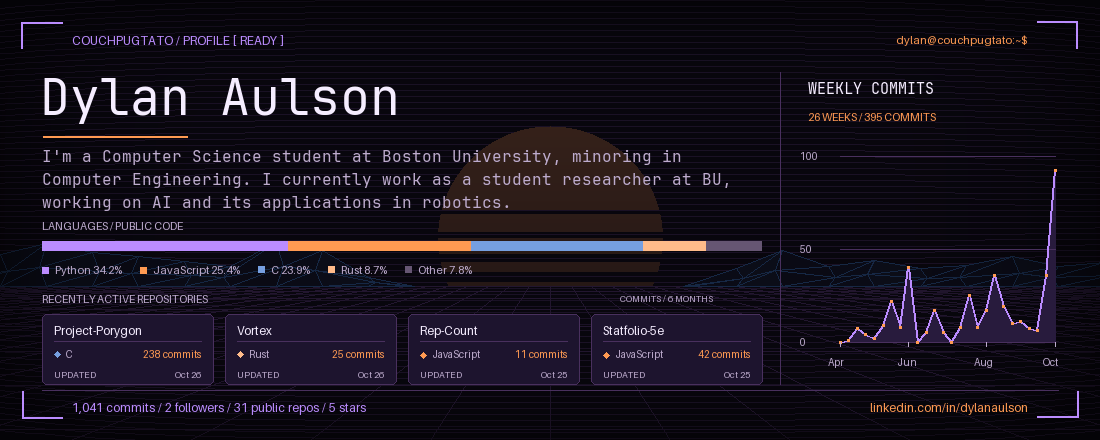
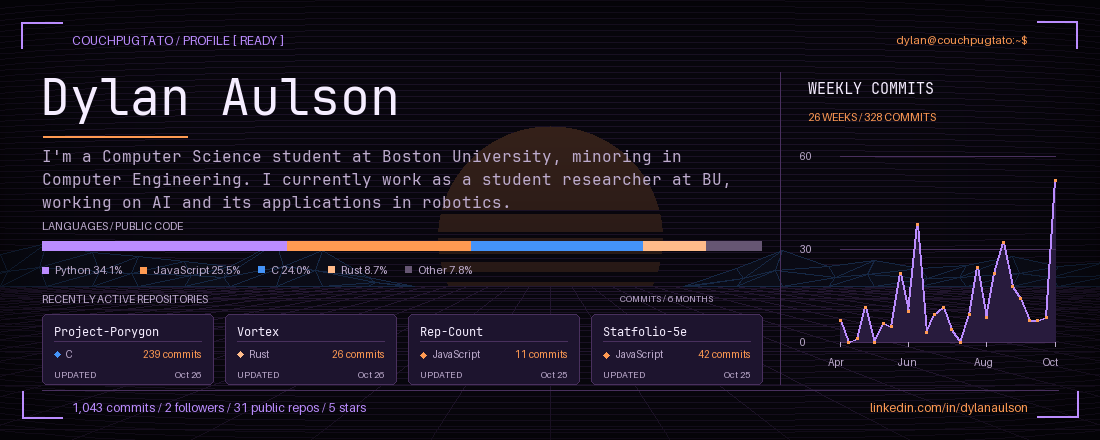
Change: match language blue to arm color

diff --git a/scripts/render_profile.py b/scripts/render_profile.py
@@ -28,8 +28,8 @@ TIMELINE_SECONDS = 12.5
 
 
 @lru_cache(maxsize=64)
-def font(size: int) -> ImageFont.FreeTypeFont:
-    if size <= 12:
+def font(size: int, monospace=False) -> ImageFont.FreeTypeFont:
+    if size <= 12 and not monospace:
         return ImageFont.load_default(size=size)
     for candidate in (
         str(ROOT / "profile/fonts/JetBrainsMono-Regular.ttf"),
@@ -44,8 +44,8 @@ def font(size: int) -> ImageFont.FreeTypeFont:
     raise ValueError("No supported font found. Install DejaVu Sans Mono or edit font().")
 
 
-def text(draw, xy, value, size, width, max_lines, fill=INK):
-    face = font(size)
+def text(draw, xy, value, size, width, max_lines, fill=INK, monospace=False):
+    face = font(size, monospace=monospace)
     lines, current = [], ""
     for word in value.split():
         if draw.textlength(word, font=face) > width:
@@ -662,7 +662,7 @@ def profile_name_size(name):
 def language_colors(config):
     languages = sorted(((name, count) for name, count in config.get("languages", {}).items() if count),
                        key=lambda item: (-item[1], item[0]))
-    palette = (config["accent"], SECONDARY, "#769fe0", "#ffbb8a")
+    palette = (config["accent"], SECONDARY, TERRAIN, "#ffbb8a")
     return {**{name: color
                for (name, _), color in zip(languages[:4], palette)}, "Other": "#665673"}
 
@@ -720,11 +720,11 @@ def activity_charts(draw, config):
         x, y = 42 + index * 183, 314
         owner, _, name = repo["name"].partition("/")
         label = name if owner.casefold() == config.get("github_username", "").casefold() else repo["name"]
-        while draw.textlength(label, font=font(12)) > 147:
+        while draw.textlength(label, font=font(12, monospace=True)) > 147:
             label = label[:-4] + "..."
         draw.rounded_rectangle((x, y, x + 171, y + 70), radius=5, fill=PANEL, outline="#49305e")
         draw.line((x + 12, y + 27, x + 159, y + 27), fill="#49305e")
-        text(draw, (x + 12, y + 9), label, 12, 147, 1, INK)
+        text(draw, (x + 12, y + 9), label, 12, 147, 1, INK, monospace=True)
         language = config.get("repository_details", {}).get(repo["name"].casefold(), {}).get("language") or "Code"
         language_color = colors.get(language, colors["Other"])
         bounds = draw.textbbox((x + 24, y + 34), language, font=font(10))
@@ -819,7 +819,7 @@ def loading_scene(config, progress):
     image = backdrop(config["accent"], show_sun=False, emphasis=1, show_terrain=False)
     draw = ImageDraw.Draw(image)
     accent = config["accent"]
-    text(draw, (72, 33), "LINUX / PROFILE INITIALIZATION", 12, 780, 1, accent)
+    text(draw, (72, 33), "PROFILE / INITIALIZING", 12, 780, 1, accent)
     status_x = 1028 - round(draw.textlength("systemd[1]", font=font(11)))
     text(draw, (status_x, 33), "systemd[1]", 11, 110, 1, SECONDARY)
     points_layer = Image.new("RGBA", SIZE, (0, 0, 0, 0))
